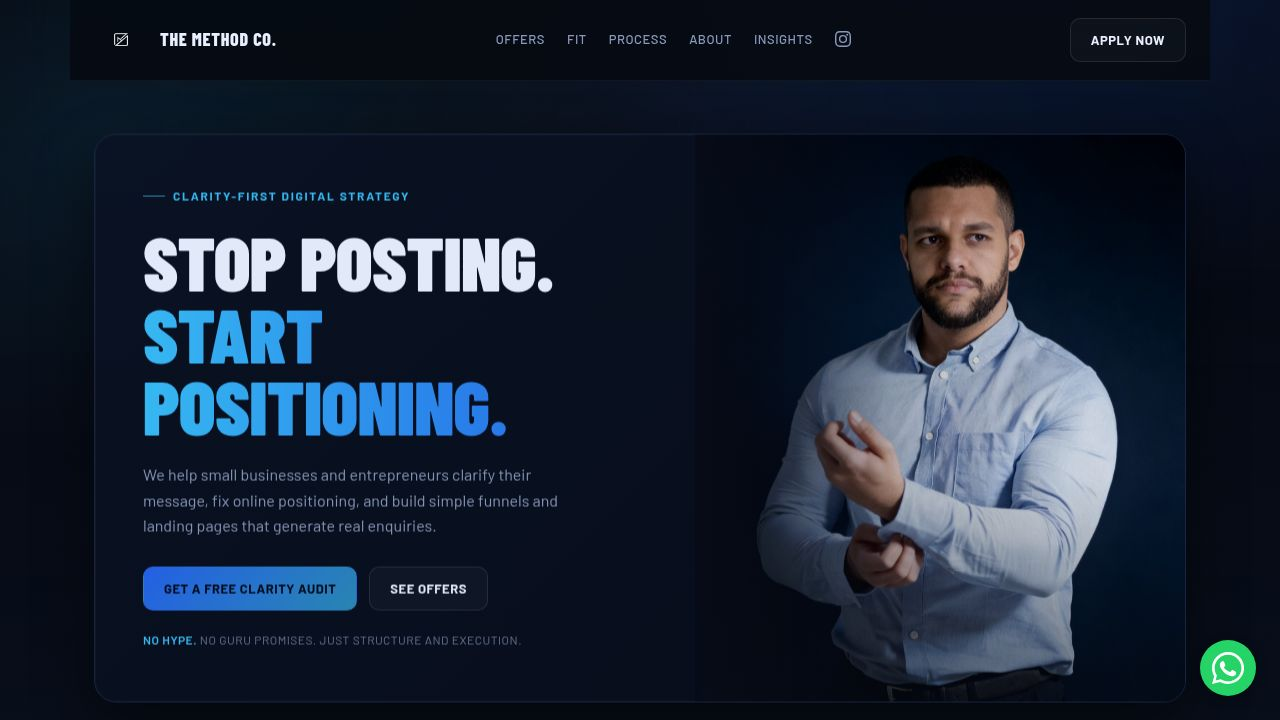
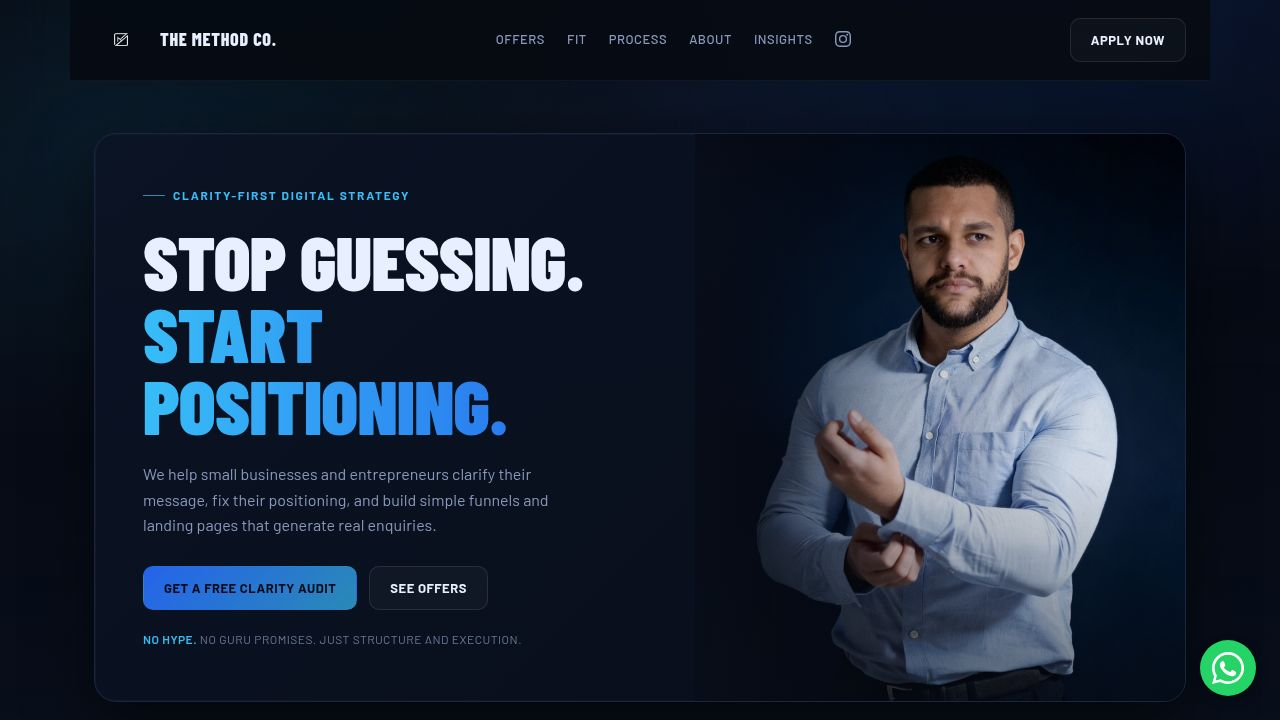
Update website content and improve user experience on mobile devices
Refactors text content across `index.html` and `the_method_co.html` for improved clarity and messaging, and updates mobile navigation and hero image display for better responsiveness.

Replit-Commit-Author: Agent
Replit-Commit-Session-Id: 05d7b8d0-4c6d-4a5b-9894-d6a75df47a60
Replit-Commit-Checkpoint-Type: full_checkpoint
Replit-Commit-Event-Id: 166c19cd-b516-410d-ac94-ca8af5b5a663
Replit-Commit-Screenshot-Url: https://storage.googleapis.com/screenshot-production-us-central1/77d18959-1b15-4ebc-941e-5a91b98f7e1e/05d7b8d0-4c6d-4a5b-9894-d6a75df47a60/lL0v2YV
Replit-Helium-Checkpoint-Created: true

diff --git a/client/the_method_co.html b/client/the_method_co.html
@@ -504,9 +504,9 @@
   <section class="hero" id="top">
     <div class="heroContent">
       <div class="kicker">Clarity-first digital strategy</div>
-      <h1>Stop Posting.<br/><span class="h1-line2">Start Positioning.</span></h1>
+      <h1>Stop Guessing.<br/><span class="h1-line2">Start Positioning.</span></h1>
       <p class="sub">
-        We help small businesses and entrepreneurs clarify their message, fix online positioning,
+        We help small businesses and entrepreneurs clarify their message, fix their positioning,
         and build simple funnels and landing pages that generate real enquiries.
       </p>
       <div class="ctaRow">
@@ -523,8 +523,8 @@
   <section class="section reveal" id="problem">
     <div class="sectionHead">
       <div class="sectionLabel">The real problem</div>
-      <h2>You don't need more content.</h2>
-      <p>You need clarity and a system that converts attention into enquiries.</p>
+      <h2>You don't need more visibility.</h2>
+      <p>You need clarity and a system that turns visitors into enquiries.</p>
     </div>
     <div class="grid3">
       <div class="card">
@@ -549,30 +549,56 @@
       <p>Clarity. Trust. Conversion. In that order.</p>
     </div>
     <div class="grid3">
+
       <div class="card">
-        <h3>Positioning &amp; offer clarity</h3>
-        <p>Make it obvious what you sell, who it's for, and why it's worth it.</p>
+        <div style="width:48px;height:48px;border-radius:12px;background:rgba(37,99,235,.12);border:1px solid rgba(37,99,235,.25);display:flex;align-items:center;justify-content:center;margin-bottom:18px;">
+          <svg width="24" height="24" viewBox="0 0 24 24" fill="none" stroke="#38bdf8" stroke-width="1.8" stroke-linecap="round" stroke-linejoin="round"><circle cx="12" cy="12" r="3"/><path d="M12 2v3M12 19v3M2 12h3M19 12h3"/><path d="M4.93 4.93l2.12 2.12M16.95 16.95l2.12 2.12M4.93 19.07l2.12-2.12M16.95 7.05l2.12-2.12"/></svg>
+        </div>
+        <h3>Positioning &amp; Strategy</h3>
+        <p>Make it obvious what you sell, who it's for, and why it's worth it. No guesswork.</p>
       </div>
+
       <div class="card">
+        <div style="width:48px;height:48px;border-radius:12px;background:rgba(37,99,235,.12);border:1px solid rgba(37,99,235,.25);display:flex;align-items:center;justify-content:center;margin-bottom:18px;">
+          <svg width="24" height="24" viewBox="0 0 24 24" fill="none" stroke="#38bdf8" stroke-width="1.8" stroke-linecap="round" stroke-linejoin="round"><path d="M12 20h9"/><path d="M16.5 3.5a2.121 2.121 0 0 1 3 3L7 19l-4 1 1-4L16.5 3.5z"/></svg>
+        </div>
         <h3>Copywriting</h3>
-        <p>Clear messaging for website and socials that doesn't sound like marketing fluff.</p>
+        <p>Clear messaging for your website and socials — without fluff, jargon, or empty promises.</p>
       </div>
+
       <div class="card">
-        <h3>Landing page structure</h3>
-        <p>Flow, sections, hierarchy, and CTA logic that makes sense and converts.</p>
+        <div style="width:48px;height:48px;border-radius:12px;background:rgba(37,99,235,.12);border:1px solid rgba(37,99,235,.25);display:flex;align-items:center;justify-content:center;margin-bottom:18px;">
+          <svg width="24" height="24" viewBox="0 0 24 24" fill="none" stroke="#38bdf8" stroke-width="1.8" stroke-linecap="round" stroke-linejoin="round"><rect x="2" y="3" width="20" height="14" rx="2"/><path d="M8 21h8M12 17v4"/></svg>
+        </div>
+        <h3>Landing Page Build</h3>
+        <p>Flow, sections, hierarchy, and CTA logic that guides visitors toward a decision.</p>
       </div>
+
       <div class="card">
-        <h3>Visual hierarchy</h3>
-        <p>Layout, spacing, and typography that improves perception and readability.</p>
+        <div style="width:48px;height:48px;border-radius:12px;background:rgba(37,99,235,.12);border:1px solid rgba(37,99,235,.25);display:flex;align-items:center;justify-content:center;margin-bottom:18px;">
+          <svg width="24" height="24" viewBox="0 0 24 24" fill="none" stroke="#38bdf8" stroke-width="1.8" stroke-linecap="round" stroke-linejoin="round"><path d="M22 3H2l8 9.46V19l4 2V12.46L22 3z"/></svg>
+        </div>
+        <h3>Funnel Planning</h3>
+        <p>Attention. Trust. Enquiry. A simple funnel mapped to your offer — no overcomplication.</p>
       </div>
+
       <div class="card">
-        <h3>Simple funnel logic</h3>
-        <p>Attention. Trust. Enquiry. No overcomplication. Just what works.</p>
+        <div style="width:48px;height:48px;border-radius:12px;background:rgba(37,99,235,.12);border:1px solid rgba(37,99,235,.25);display:flex;align-items:center;justify-content:center;margin-bottom:18px;">
+          <svg width="24" height="24" viewBox="0 0 24 24" fill="none" stroke="#38bdf8" stroke-width="1.8" stroke-linecap="round" stroke-linejoin="round"><path d="M2 20h.01M7 20v-4M12 20V10M17 20V4M22 20v-8"/></svg>
+        </div>
+        <h3>Paid Ads Direction</h3>
+        <p>Meta &amp; Google alignment — message, offer, and landing page all working together to convert.</p>
       </div>
+
       <div class="card">
-        <h3>Paid ads direction</h3>
-        <p>Meta/Google alignment. Message, offer and landing page all working together.</p>
+        <div style="width:48px;height:48px;border-radius:12px;background:rgba(34,197,94,.1);border:1px solid rgba(34,197,94,.25);display:flex;align-items:center;justify-content:center;margin-bottom:18px;">
+          <svg width="24" height="24" viewBox="0 0 24 24" fill="none" stroke="#4ade80" stroke-width="1.8" stroke-linecap="round" stroke-linejoin="round"><path d="M9 11l3 3L22 4"/><path d="M21 12v7a2 2 0 0 1-2 2H5a2 2 0 0 1-2-2V5a2 2 0 0 1 2-2h11"/></svg>
+        </div>
+        <h3>Digital Clarity Audit</h3>
+        <p>We diagnose exactly what's blocking enquiries — website, Instagram, messaging. No assumptions.</p>
+        <span class="tag free" style="margin-top:14px;display:inline-block;">Free</span>
       </div>
+
     </div>
   </section>
 
@@ -591,7 +617,7 @@
         </div>
         <p style="color:var(--muted); font-size:14px">Perfect if you're unsure what's blocking enquiries.</p>
         <ul class="list">
-          <li>Review of website / Instagram</li>
+          <li>Review of your digital presence</li>
           <li>What's broken and why</li>
           <li>Clear priorities on what to fix first</li>
         </ul>
@@ -668,7 +694,7 @@
           <li><span class="ico-x">✕</span><span>You want viral hacks or overnight miracles.</span></li>
           <li><span class="ico-x">✕</span><span>You expect someone to "save" your business with magic.</span></li>
           <li><span class="ico-x">✕</span><span>You won't change the offer, the page, or the message.</span></li>
-          <li><span class="ico-x">✕</span><span>You just want posting with no strategy behind it.</span></li>
+          <li><span class="ico-x">✕</span><span>You want tactics without fixing the foundation first.</span></li>
         </ul>
       </div>
     </div>

diff --git a/client/index.html b/client/index.html
@@ -504,9 +504,9 @@
   <section class="hero" id="top">
     <div class="heroContent">
       <div class="kicker">Clarity-first digital strategy</div>
-      <h1>Stop Posting.<br/><span class="h1-line2">Start Positioning.</span></h1>
+      <h1>Stop Guessing.<br/><span class="h1-line2">Start Positioning.</span></h1>
       <p class="sub">
-        We help small businesses and entrepreneurs clarify their message, fix online positioning,
+        We help small businesses and entrepreneurs clarify their message, fix their positioning,
         and build simple funnels and landing pages that generate real enquiries.
       </p>
       <div class="ctaRow">
@@ -523,8 +523,8 @@
   <section class="section reveal" id="problem">
     <div class="sectionHead">
       <div class="sectionLabel">The real problem</div>
-      <h2>You don't need more content.</h2>
-      <p>You need clarity and a system that converts attention into enquiries.</p>
+      <h2>You don't need more visibility.</h2>
+      <p>You need clarity and a system that turns visitors into enquiries.</p>
     </div>
     <div class="grid3">
       <div class="card">
@@ -563,7 +563,7 @@
           <svg width="24" height="24" viewBox="0 0 24 24" fill="none" stroke="#38bdf8" stroke-width="1.8" stroke-linecap="round" stroke-linejoin="round"><path d="M12 20h9"/><path d="M16.5 3.5a2.121 2.121 0 0 1 3 3L7 19l-4 1 1-4L16.5 3.5z"/></svg>
         </div>
         <h3>Copywriting</h3>
-        <p>Clear messaging for your website and socials — without fluff, jargon, or empty promises.</p>
+        <p>Clear messaging for your website, ads, and key touchpoints. No fluff.</p>
       </div>
 
       <div class="card">
@@ -617,7 +617,7 @@
         </div>
         <p style="color:var(--muted); font-size:14px">Perfect if you're unsure what's blocking enquiries.</p>
         <ul class="list">
-          <li>Review of website / Instagram</li>
+          <li>Review of your digital presence</li>
           <li>What's broken and why</li>
           <li>Clear priorities on what to fix first</li>
         </ul>
@@ -694,7 +694,7 @@
           <li><span class="ico-x">✕</span><span>You want viral hacks or overnight miracles.</span></li>
           <li><span class="ico-x">✕</span><span>You expect someone to "save" your business with magic.</span></li>
           <li><span class="ico-x">✕</span><span>You won't change the offer, the page, or the message.</span></li>
-          <li><span class="ico-x">✕</span><span>You just want posting with no strategy behind it.</span></li>
+          <li><span class="ico-x">✕</span><span>You want tactics without fixing the foundation first.</span></li>
         </ul>
       </div>
     </div>
